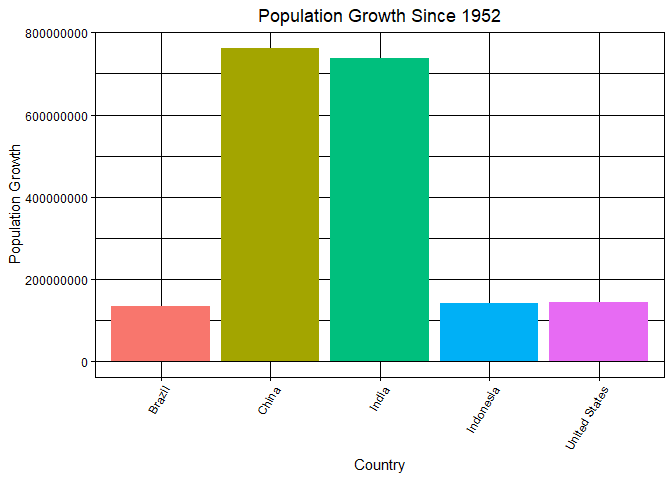
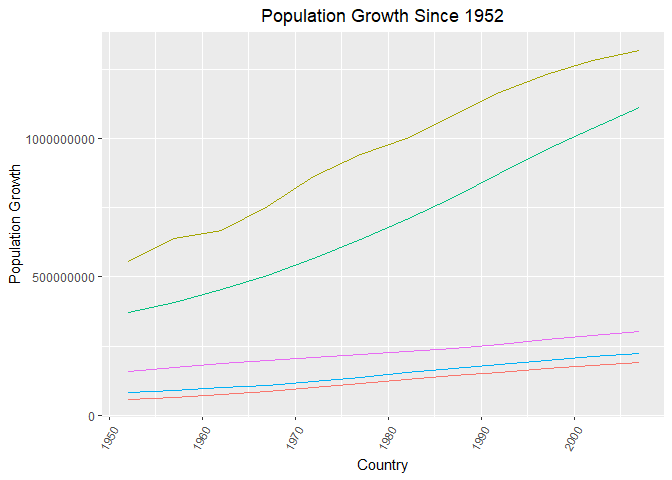
Lab11_Update

diff --git a/lab11/lab11_hw.html b/lab11/lab11_hw.html
@@ -11,7 +11,7 @@
 
 <meta name="author" content="Emily Spencer" />
 
-<meta name="date" content="2021-02-15" />
+<meta name="date" content="2021-02-16" />
 
 <title>Lab 11 Homework</title>
 
@@ -191,7 +191,7 @@ summary {
 
 <h1 class="title toc-ignore">Lab 11 Homework</h1>
 <h4 class="author">Emily Spencer</h4>
-<h4 class="date">2021-02-15</h4>
+<h4 class="date">2021-02-16</h4>
 
 </div>
 
@@ -394,64 +394,49 @@ library(&quot;gapminder&quot;)</code></pre>
[1 lines of base64/hex data omitted]
 <p><strong>7. Which countries have had the largest population growth since 1952?</strong></p>
 <pre class="r"><code>gapminder %&gt;% 
-  select(year, pop, country) %&gt;% 
-  filter(year==1952|year==2007) %&gt;% 
-  group_by(country) %&gt;% 
-  summarise(total_pop_growth=diff(pop)) %&gt;% 
-  arrange(desc(total_pop_growth))</code></pre>
-<pre><code>## # A tibble: 142 x 2
-##    country       total_pop_growth
-##    &lt;fct&gt;                    &lt;int&gt;
-##  1 China                762419569
-##  2 India                738396331
-##  3 United States        143586947
-##  4 Indonesia            141495000
-##  5 Brazil               133408087
-##  6 Pakistan             127924057
-##  7 Bangladesh           103561480
-##  8 Nigeria              101912068
-##  9 Mexico                78556574
-## 10 Philippines           68638596
+  select(country, year, pop) %&gt;% 
+  filter(year==1952 | year==2007) %&gt;% 
+  pivot_wider(names_from = year,
+              names_prefix = &quot;yr_&quot;,
+              values_from = pop) %&gt;% 
+  mutate(delta= yr_2007-yr_1952) %&gt;% 
+  arrange(desc(delta))</code></pre>
+<pre><code>## # A tibble: 142 x 4
+##    country         yr_1952    yr_2007     delta
+##    &lt;fct&gt;             &lt;int&gt;      &lt;int&gt;     &lt;int&gt;
+##  1 China         556263527 1318683096 762419569
+##  2 India         372000000 1110396331 738396331
+##  3 United States 157553000  301139947 143586947
+##  4 Indonesia      82052000  223547000 141495000
+##  5 Brazil         56602560  190010647 133408087
+##  6 Pakistan       41346560  169270617 127924057
+##  7 Bangladesh     46886859  150448339 103561480
+##  8 Nigeria        33119096  135031164 101912068
+##  9 Mexico         30144317  108700891  78556574
+## 10 Philippines    22438691   91077287  68638596
 ## # ... with 132 more rows</code></pre>
 <p><strong>8. Use your results from the question above to plot population growth for the top five countries since 1952.</strong></p>
 <pre class="r"><code>gapminder %&gt;% 
-  filter(year==1952|year==2007) %&gt;% 
-  group_by(country) %&gt;% 
-  summarise(total_pop_growth=diff(pop)) %&gt;% 
-  arrange(desc(total_pop_growth)) %&gt;% 
-  head(n=5) %&gt;% 
-  ggplot(aes(x=country, y=total_pop_growth, fill=country)) + geom_col() +
-  theme_linedraw() +
+  filter(country==&quot;China&quot; | country==&quot;India&quot; | country==&quot;United States&quot; | country==&quot;Indonesia&quot; | country==&quot;Brazil&quot;) %&gt;% 
+  select(country, year, pop) %&gt;% 
+  ggplot(aes(x=year, y=pop, color=country))+
+  geom_line()+
   theme(plot.title=element_text(hjust=0.5), axis.text.x = element_text(angle = 60, hjust=1), legend.position=&quot;none&quot;)+
   labs(title=&quot;Population Growth Since 1952&quot;,
        x=&quot;Country&quot;,
        y=&quot;Population Growth&quot;)</code></pre>
[2 lines of base64/hex data omitted]
 <p><strong>9. How does per-capita GDP growth compare between these same five countries?</strong></p>
 <pre class="r"><code>gapminder %&gt;% 
-  filter(between(year,1952,2007)) %&gt;% 
-  filter(country==&quot;Brazil&quot;|country==&quot;China&quot;|country== &quot;India&quot;|country== &quot;Indonesia&quot;|country== &quot;United States&quot;) %&gt;% 
-  group_by(country) %&gt;% 
-  summarise(total_gdpPercap=sum(gdpPercap))</code></pre>
-<pre><code>## # A tibble: 5 x 2
-##   country       total_gdpPercap
-## * &lt;fct&gt;                   &lt;dbl&gt;
-## 1 Brazil                 69952.
-## 2 China                  17860.
-## 3 India                  12688.
-## 4 Indonesia              20896.
-## 5 United States         315134.</code></pre>
-<pre class="r"><code>gapminder %&gt;% 
-  filter(year==1952|year==2007) %&gt;% 
-  filter(country==&quot;Brazil&quot;|country==&quot;China&quot;|country== &quot;India&quot;|country== &quot;Indonesia&quot;|country== &quot;United States&quot;) %&gt;% 
-  group_by(country) %&gt;% 
-  summarise(total_gdpPercap=diff(gdpPercap)) %&gt;%  
-  ggplot(aes(x=country, y=total_gdpPercap, fill=country))+geom_col()+ theme_linedraw() +
+  filter(country==&quot;China&quot; | country==&quot;India&quot; | country==&quot;United States&quot; | country==&quot;Indonesia&quot; | country==&quot;Brazil&quot;) %&gt;% 
+  select(year, country, gdpPercap) %&gt;% 
+  ggplot(aes(x=year, y=gdpPercap, group=country, color=country))+
+  geom_line()+
   theme(plot.title=element_text(hjust=0.5), axis.text.x = element_text(angle = 60, hjust=1), legend.position=&quot;none&quot;)+
   labs(title=&quot;Per-Capita GDP Growth Since 1952&quot;,
        x=&quot;Country&quot;,
        y=&quot;Per-Capita GDP Growth&quot;)</code></pre>
[2 lines of base64/hex data omitted]
 <p><strong>10. Make one plot of your choice that uses faceting!</strong></p>
 <pre class="r"><code>gapminder %&gt;% 
   group_by(continent) %&gt;% 

diff --git a/lab11/lab11_hw.md b/lab11/lab11_hw.md
@@ -1,7 +1,7 @@
 ---
 title: "Lab 11 Homework"
 author: "Emily Spencer"
-date: "2021-02-15"
+date: "2021-02-16"
 output:
   html_document: 
     theme: spacelab
@@ -314,42 +314,40 @@ gapminder %>%
 
 ```r
 gapminder %>% 
-  select(year, pop, country) %>% 
-  filter(year==1952|year==2007) %>% 
-  group_by(country) %>% 
-  summarise(total_pop_growth=diff(pop)) %>% 
-  arrange(desc(total_pop_growth))
+  select(country, year, pop) %>% 
+  filter(year==1952 | year==2007) %>% 
+  pivot_wider(names_from = year,
+              names_prefix = "yr_",
+              values_from = pop) %>% 
+  mutate(delta= yr_2007-yr_1952) %>% 
+  arrange(desc(delta))
 ```
 
 ```
-## # A tibble: 142 x 2
-##    country       total_pop_growth
-##    <fct>                    <int>
-##  1 China                762419569
-##  2 India                738396331
-##  3 United States        143586947
-##  4 Indonesia            141495000
-##  5 Brazil               133408087
-##  6 Pakistan             127924057
-##  7 Bangladesh           103561480
-##  8 Nigeria              101912068
-##  9 Mexico                78556574
-## 10 Philippines           68638596
+## # A tibble: 142 x 4
+##    country         yr_1952    yr_2007     delta
+##    <fct>             <int>      <int>     <int>
+##  1 China         556263527 1318683096 762419569
+##  2 India         372000000 1110396331 738396331
+##  3 United States 157553000  301139947 143586947
+##  4 Indonesia      82052000  223547000 141495000
+##  5 Brazil         56602560  190010647 133408087
+##  6 Pakistan       41346560  169270617 127924057
+##  7 Bangladesh     46886859  150448339 103561480
+##  8 Nigeria        33119096  135031164 101912068
+##  9 Mexico         30144317  108700891  78556574
+## 10 Philippines    22438691   91077287  68638596
 ## # ... with 132 more rows
 ```
-
 
 **8. Use your results from the question above to plot population growth for the top five countries since 1952.**
 
 ```r
 gapminder %>% 
-  filter(year==1952|year==2007) %>% 
-  group_by(country) %>% 
-  summarise(total_pop_growth=diff(pop)) %>% 
-  arrange(desc(total_pop_growth)) %>% 
-  head(n=5) %>% 
-  ggplot(aes(x=country, y=total_pop_growth, fill=country)) + geom_col() +
-  theme_linedraw() +
+  filter(country=="China" | country=="India" | country=="United States" | country=="Indonesia" | country=="Brazil") %>% 
+  select(country, year, pop) %>% 
+  ggplot(aes(x=year, y=pop, color=country))+
+  geom_line()+
   theme(plot.title=element_text(hjust=0.5), axis.text.x = element_text(angle = 60, hjust=1), legend.position="none")+
   labs(title="Population Growth Since 1952",
        x="Country",
@@ -362,37 +360,17 @@ gapminder %>%
 
 ```r
 gapminder %>% 
-  filter(between(year,1952,2007)) %>% 
-  filter(country=="Brazil"|country=="China"|country== "India"|country== "Indonesia"|country== "United States") %>% 
-  group_by(country) %>% 
-  summarise(total_gdpPercap=sum(gdpPercap))
-```
-
-```
-## # A tibble: 5 x 2
-##   country       total_gdpPercap
-## * <fct>                   <dbl>
-## 1 Brazil                 69952.
-## 2 China                  17860.
-## 3 India                  12688.
-## 4 Indonesia              20896.
-## 5 United States         315134.
-```
-
-```r
-gapminder %>% 
-  filter(year==1952|year==2007) %>% 
-  filter(country=="Brazil"|country=="China"|country== "India"|country== "Indonesia"|country== "United States") %>% 
-  group_by(country) %>% 
-  summarise(total_gdpPercap=diff(gdpPercap)) %>%  
-  ggplot(aes(x=country, y=total_gdpPercap, fill=country))+geom_col()+ theme_linedraw() +
+  filter(country=="China" | country=="India" | country=="United States" | country=="Indonesia" | country=="Brazil") %>% 
+  select(year, country, gdpPercap) %>% 
+  ggplot(aes(x=year, y=gdpPercap, group=country, color=country))+
+  geom_line()+
   theme(plot.title=element_text(hjust=0.5), axis.text.x = element_text(angle = 60, hjust=1), legend.position="none")+
   labs(title="Per-Capita GDP Growth Since 1952",
        x="Country",
        y="Per-Capita GDP Growth")
 ```
 
-![](lab11_hw_files/figure-html/unnamed-chunk-22-1.png)<!-- -->
+![](lab11_hw_files/figure-html/unnamed-chunk-21-1.png)<!-- -->
 
 **10. Make one plot of your choice that uses faceting!**
 
@@ -406,7 +384,7 @@ gapminder %>%
        y="Density")
 ```
 
-![](lab11_hw_files/figure-html/unnamed-chunk-23-1.png)<!-- -->
+![](lab11_hw_files/figure-html/unnamed-chunk-22-1.png)<!-- -->
 
 ## Push your final code to GitHub!
 Please be sure that you check the `keep md` file in the knit preferences. 
